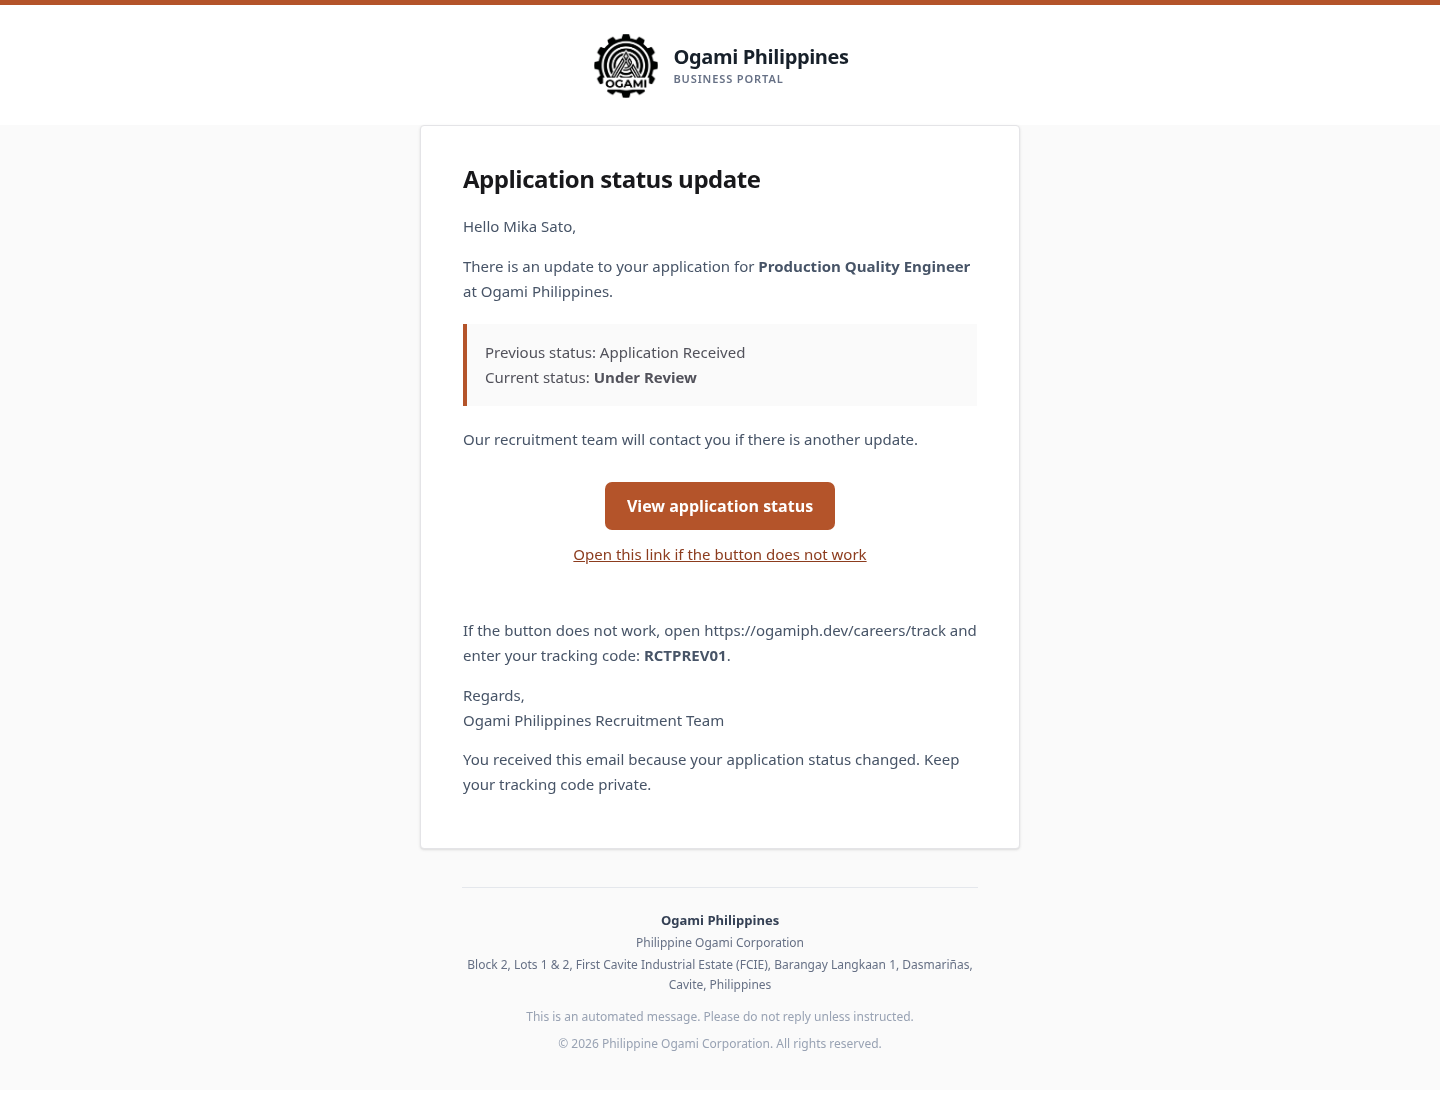
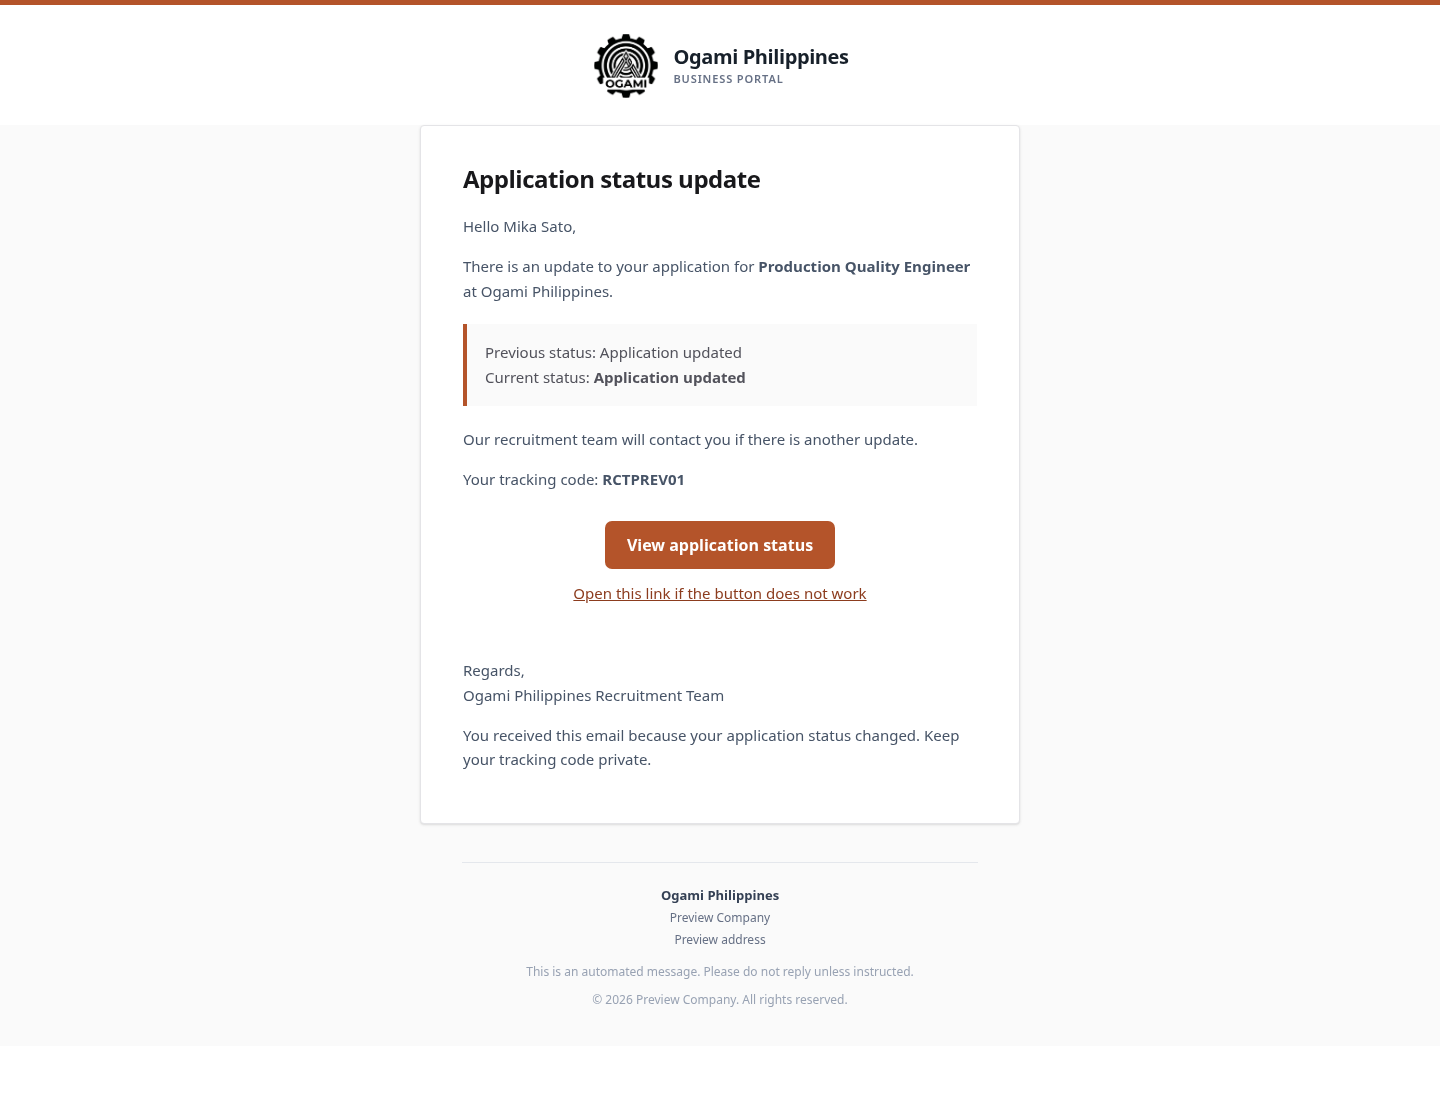
docs(email): refresh candidate status preview

Changed region(s): [[0.3125, 0.4327, 0.6562, 0.7418], [0.3438, 0.8036, 0.6562, 0.9582], [0.4062, 0.3091, 0.5312, 0.3709]]

diff --git a/docs/emails/E-012-015-candidate-emails.md b/docs/emails/E-012-015-candidate-emails.md
@@ -15,4 +15,4 @@ Recipient remains the application email supplied by the candidate. Invalid/missi
 
 ## Visual review
 
-Rendered with Laravel Markdown using seeded candidate data; reviewed in Chromium at 1440px and 390px in light/dark color schemes. No horizontal overflow; logo, details, fallback CTA, footer, and plain-text parts present. Each screenshot is in [screenshots](screenshots/): E-012 application received, E-013 status update, E-014 interview scheduled, and E-015 interview details updated. This proves browser rendering only, not Outlook, Gmail, Apple Mail, Yahoo, delivery, or inbox placement.
+Rendered with Laravel Markdown using seeded candidate data; reviewed in Chromium at 1440px and 390px in light/dark color schemes. E-013 was refreshed from its current mailable: landing-page logo appears, CTA and fallback link render once, and no extra raw-URL paragraph appears. No horizontal overflow; details, footer, and plain-text parts present. Each screenshot is in [screenshots](screenshots/): E-012 application received, E-013 status update, E-014 interview scheduled, and E-015 interview details updated. This proves browser rendering only, not Outlook, Gmail, Apple Mail, Yahoo, delivery, or inbox placement.
